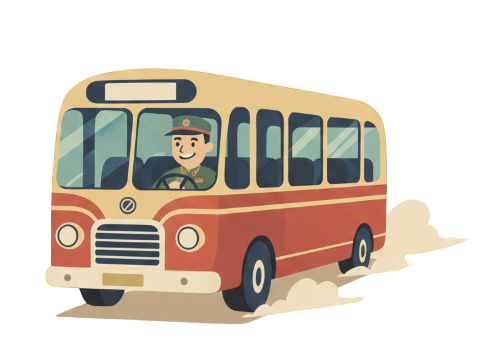
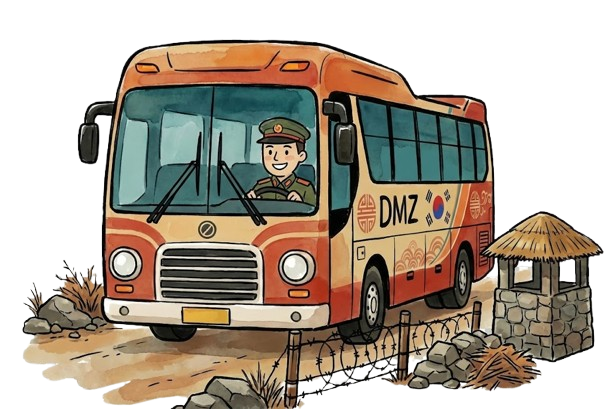
20260114 사이트 디자인 추가

diff --git a/src/app/package/packageData.ts b/src/app/package/packageData.ts
@@ -58,10 +58,10 @@ export const basicPackages: PackageTourBasic[] = [
     category: "DMZ",
     location: "Paju · DMZ",
     title: "DMZ Tour : The 3rd Infiltration Tunnel & Suspension Bridge",
-    // 쉼표로 구분하면 카드에서 회색 박스로 나뉩니다
     description: "English Guided,No Shopping,Hotel Pick-up",
+    // 파주 임진각/철교 느낌의 이미지
     image:
-      "https://images.unsplash.com/photo-1596420803522-824f9c656513?w=800&q=80",
+      "https://images.unsplash.com/photo-1590664095641-7fa05f689813?w=800&q=80",
     rating: 4.9,
     reviews: 1500,
     bookings: "6k+ booked",
@@ -78,8 +78,7 @@ export const basicPackages: PackageTourBasic[] = [
     location: "Panmunjom · JSA",
     title: "JSA Tour (Joint Security Area)",
     description: "Temporarily Suspended",
-    image:
-      "https://images.unsplash.com/photo-1588665725227-2856247c413b?w=800&q=80",
+    image: "https://images.unsplash.com/photo-1508009603885-50cf7c579365",
     rating: 4.9,
     reviews: 2100,
     bookings: "Suspended",
@@ -87,16 +86,15 @@ export const basicPackages: PackageTourBasic[] = [
     tags: ["Suspended"],
   },
 
-  // 2. DAILY (⭐ 할인: 40불 <- 50불)
+  // 2. DAILY
   {
     id: 201,
     slug: "morning-tour-seoul",
     category: "DAILY",
     location: "Seoul",
     title: "Morning Tour : Explore Seoul in the Morning",
-    description: "Gyeongbokgung,Blue House,Jogyesa Temple",
-    image:
-      "https://images.unsplash.com/photo-1596896236979-4d8b9d3c5096?w=800&q=80",
+    description: "Gyeongbokgung, Blue House, Jogyesa Temple",
+    image: "https://images.unsplash.com/photo-1508009603885-50cf7c579365",
     rating: 4.8,
     reviews: 520,
     bookings: "2.5k+ booked",
@@ -106,6 +104,7 @@ export const basicPackages: PackageTourBasic[] = [
     duration: "4 Hours",
     tags: ["Best Seller"],
   },
+
   {
     id: 202,
     slug: "afternoon-tour-seoul",
@@ -113,8 +112,9 @@ export const basicPackages: PackageTourBasic[] = [
     location: "Seoul",
     title: "Afternoon Tour : Seoul Highlights & Culture",
     description: "Changdeokgung,Insadong,Namdaemun Market",
+    // 남산타워/도시 전경
     image:
-      "https://images.unsplash.com/photo-1627447833139-445853a47926?w=800&q=80",
+      "https://images.unsplash.com/photo-1525762867061-21c9fb70b15a?w=800&q=80",
     rating: 4.7,
     reviews: 400,
     bookings: "1.8k+ booked",
@@ -127,14 +127,14 @@ export const basicPackages: PackageTourBasic[] = [
     category: "DAILY",
     location: "Seoul & Suburbs",
     title: "Full Day Tour : The Complete Seoul Experience",
-    description: "Seoul Highlights,Lunch Included,N Seoul Tower",
+    description: "Seoul Highlights, Lunch Included, N Seoul Tower",
     image:
-      "https://images.unsplash.com/photo-1605218427368-35b86d9441a1?w=800&q=80",
+      "https://images.unsplash.com/photo-1517153295259-74eb0b416cee?auto=format&fit=crop&w=800&q=80",
     rating: 4.9,
     reviews: 1200,
     bookings: "5k+ booked",
     price: 80,
-    originalPrice: 100, // ⭐ 할인 적용
+    originalPrice: 100,
     discount: 20,
     duration: "9 Hours",
     tags: ["Recommended"],
@@ -148,8 +148,9 @@ export const basicPackages: PackageTourBasic[] = [
     location: "Outside Seoul",
     title: "Provincial Tour : Discover Korea's Beauty",
     description: "Seoraksan,Gyeongju,Busan,Jeju Island",
+    // 자연 풍경
     image:
-      "https://images.unsplash.com/photo-1610444654992-6f35b440893f?w=800&q=80",
+      "https://images.unsplash.com/photo-1578469645742-46cae010e5d4?w=800&q=80",
     rating: 4.8,
     reviews: 600,
     bookings: "1k+ booked",
@@ -164,8 +165,9 @@ export const basicPackages: PackageTourBasic[] = [
     location: "Various Locations",
     title: "Drama Tour : K-Drama Filming Locations",
     description: "Winter Sonata,BTS Spots,Parasite Locations",
+    // 촬영지 느낌의 감성 사진
     image:
-      "https://images.unsplash.com/photo-1603522699946-857c5e207c4b?w=800&q=80",
+      "https://images.unsplash.com/photo-1493976040374-85c8e12f0c0e?w=800&q=80",
     rating: 4.9,
     reviews: 2000,
     bookings: "5k+ booked",
@@ -173,7 +175,7 @@ export const basicPackages: PackageTourBasic[] = [
     tags: ["K-Culture"],
   },
 
-  // 5. SKI (⭐ 할인: 90불 <- 120불)
+  // 5. SKI
   {
     id: 501,
     slug: "ski-tour-korea",
@@ -181,8 +183,9 @@ export const basicPackages: PackageTourBasic[] = [
     location: "Ski Resorts",
     title: "Ski Tour : Winter Ski & Snowboard",
     description: "Jisan Resort,Elysian Gangchon,Lesson Included",
+    // 설원/스키
     image:
-      "https://images.unsplash.com/photo-1551698618-1dfe5d97d256?w=800&q=80",
+      "https://images.unsplash.com/photo-1454496522488-7a8e488e8606?w=800&q=80",
     rating: 4.8,
     reviews: 800,
     bookings: "3k+ booked",
@@ -199,9 +202,9 @@ export const basicPackages: PackageTourBasic[] = [
     category: "RELIGIOUS",
     location: "Seoul & Nami",
     title: "Muslim Tour : Halal Friendly Travel",
-    description: "Halal Food,Prayer Room Arranged,Nami Island",
+    description: "Halal Food, Prayer Room Arranged, Nami Island",
     image:
-      "https://images.unsplash.com/photo-1580537659466-0a9bfa916a54?w=800&q=80",
+      "https://images.unsplash.com/photo-1519974719765-e6559eac2575?auto=format&fit=crop&w=800&q=80",
     rating: 4.9,
     reviews: 300,
     bookings: "800+ booked",
@@ -214,9 +217,9 @@ export const basicPackages: PackageTourBasic[] = [
     category: "RELIGIOUS",
     location: "Seoul",
     title: "Catholic Tour : Pilgrimage in Korea",
-    description: "Holy Shrines,Pope Francis Route,Mass Available",
+    description: "Holy Shrines, Pope Francis Route, Mass Available",
     image:
-      "https://images.unsplash.com/photo-1548625361-12e2c5643444?w=800&q=80",
+      "https://images.unsplash.com/photo-1529070538774-1843cb3265df?auto=format&fit=crop&w=800&q=80",
     rating: 5.0,
     reviews: 100,
     bookings: "200+ booked",
@@ -228,9 +231,9 @@ export const basicPackages: PackageTourBasic[] = [
     category: "RELIGIOUS",
     location: "Temples",
     title: "Buddhist Tour : Temple Stay & Culture",
-    description: "Meditation,Tea Ceremony,Temple Stay",
+    description: "Meditation, Tea Ceremony, Temple Stay",
     image:
-      "https://images.unsplash.com/photo-1597817473551-7e87514a66f7?w=800&q=80",
+      "https://images.unsplash.com/photo-1508609349937-5ec4ae374ebf?auto=format&fit=crop&w=800&q=80",
     rating: 4.8,
     reviews: 150,
     bookings: "300+ booked",

diff --git a/src/components/FeaturedAccommodations.tsx b/src/components/FeaturedAccommodations.tsx
@@ -51,10 +51,11 @@ export default function FeaturedAccommodations() {
 
   return (
     <section className="relative pt-14 pb-32 lg:pt-20 lg:pb-44 bg-gradient-to-br from-[#F8F1E7] via-white to-[#F8F1E7]">
+      {/* 배경 이미지 영역 수정됨 */}
       <div className="absolute inset-0 z-0 overflow-hidden">
         <Image
-          src="https://images.unsplash.com/photo-1583562835057-a62d1beffbf3?w=1600"
-          alt=""
+          src="/images/background_korea_img.png" // 수정된 부분
+          alt="Section Background"
           fill
           className="object-cover opacity-5"
           priority
@@ -153,7 +154,7 @@ export default function FeaturedAccommodations() {
           </div>
         </div>
 
-        {/* 배경 일러스트 이미지 위치 유지 */}
+        {/* 하단 배경 일러스트 이미지 */}
         <div className="absolute bottom-0 left-6 lg:left-[calc((100%-1152px)/2+1.5rem)] z-0 pointer-events-none">
           <Image
             src="/images/card_koreaimg_v2.png"

diff --git a/src/app/contact/page.tsx b/src/app/contact/page.tsx
@@ -73,7 +73,7 @@ export default function ContactPage() {
       <PageHero
         title="Contact Seoul City Tour"
         description="Get in touch with our team for tour bookings, travel inquiries, and local assistance in Korea."
-        imageSrc="/images/background_korea_pt2.jpg"
+        imageSrc="/images/background_korea_pt2.png"
       />
 
       {/* ================= Contact Content ================= */}

diff --git a/src/app/company/page.tsx b/src/app/company/page.tsx
@@ -8,7 +8,7 @@ export default function CompanyPage() {
       <PageHero
         title="About Us"
         description="A Trusted Seoul Tour Operator Since 2004"
-        imageSrc="/images/background_korea_pt2.jpg"
+        imageSrc="/images/background_korea_pt2.png"
       />
 
       {/* Company Overview - Overlapping Content */}

diff --git a/src/app/private/page.tsx b/src/app/private/page.tsx
@@ -78,7 +78,7 @@ export default function PrivateTourPage() {
       <PageHero
         title="Private Tour"
         description="Customize your perfect Korean adventure with our VIP service"
-        imageSrc="/images/background_korea_pt2.jpg"
+        imageSrc="/images/background_korea_pt2.png"
       />
 
       {/* Content */}

diff --git a/src/components/TourLayout.tsx b/src/components/TourLayout.tsx
@@ -37,7 +37,7 @@ export default function TourLayout({
       <PageHero
         title={heroTitle}
         description={heroSubtitle}
-        imageSrc="/images/background_korea_pt2.jpg"
+        imageSrc="/images/background_korea_pt2.png"
       />
 
       <div className="max-w-6xl mx-auto px-4 -mt-16 relative z-10 pb-16">
